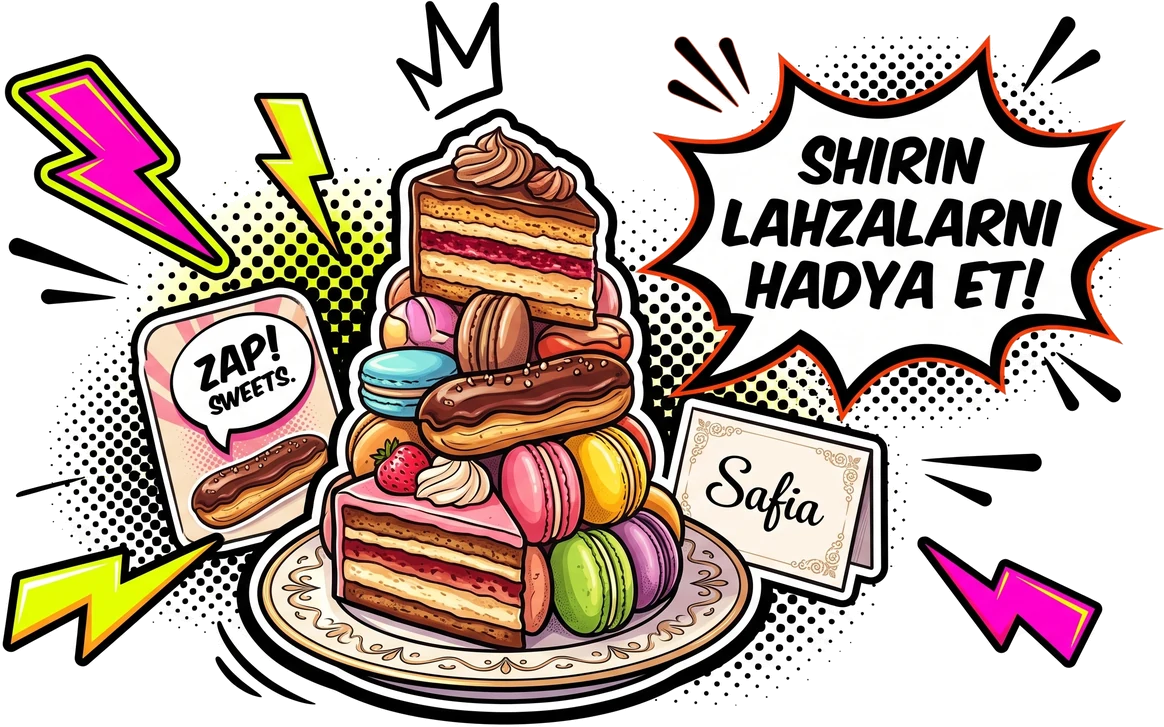
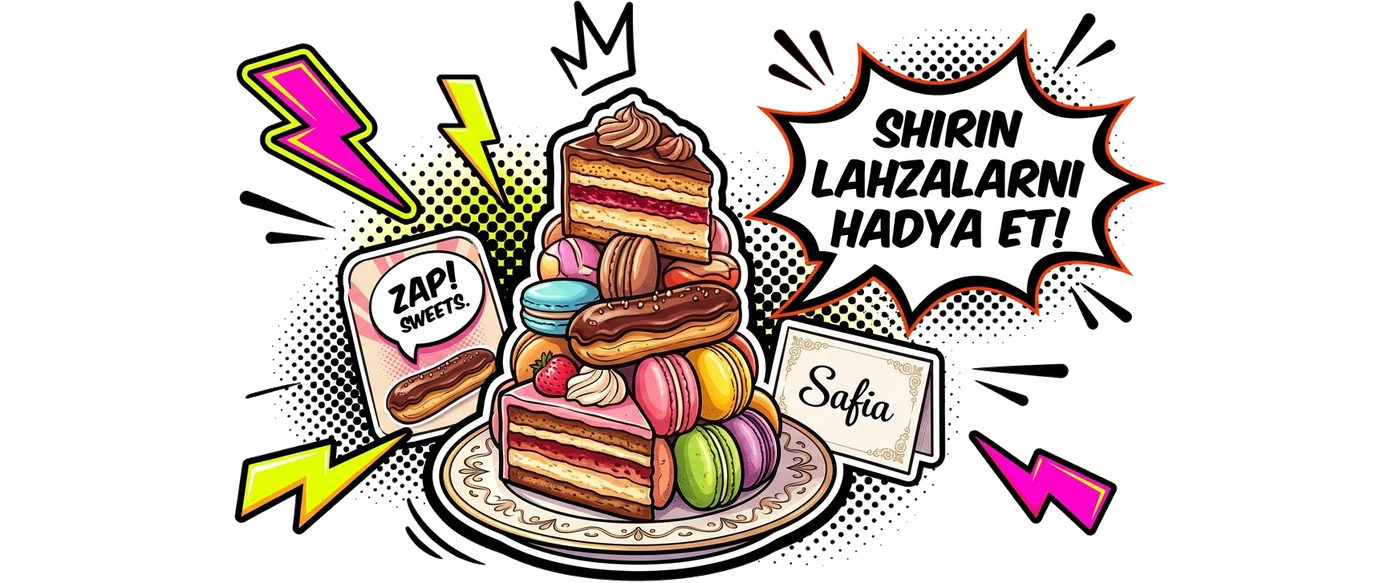
Баннеры одного размера без обрезки
Выравнивание сделано в самих файлах, а не раскладкой: четырём новым баннерам
добавлены прозрачные поля по бокам до пропорции feedup. Теперь при contain все
пять рисуются одной высотой и ничего не обрезается — cover уравнивал размеры,
но срезал у feedup край лаваша.

Кадр уменьшен с 218 до 162: после выравнивания баннеры рисуются высотой ~156,
и прежняя высота оставляла по 30 pt пустоты сверху и снизу.

diff --git a/apps/mobile/src/components/PromoCarousel.tsx b/apps/mobile/src/components/PromoCarousel.tsx
@@ -94,15 +94,17 @@ export function PromoCarousel({ category }: Props) {
             <Pressable key={v.id} style={{ width }} onPress={(e) => onTap(e.nativeEvent.locationX)}>
               <View style={styles.venueImgWrap}>
                 {/*
-                  Только contain: cover уравнивал размеры, но резал рисунок по
-                  краям — у feedup уходил край лаваша.
+                  contain и одинаковая пропорция у всех файлов.
 
-                  Из-за этого feedup рисуется мельче прочих: он 2.43:1, а
-                  остальные баннеры 1.6–1.9:1, и при равной ширине широкий
-                  кадр выходит ниже. Полями это не лечится — он и так упирается
-                  в ширину, поля лишь уменьшат рисунок. Чинится только
-                  перерисовкой feedup в тех же пропорциях, что и остальные
-                  четыре (2752×1536).
+                  Баннеры пришли разной ширины (1.6–2.43:1), и при contain
+                  каждый упирался в свою сторону кадра: широкий feedup выходил
+                  вдвое ниже прочих. cover это выравнивал, но резал рисунок —
+                  у feedup уходил край лаваша.
+
+                  Поэтому выравнивание сделано в самих файлах: остальным
+                  четырём добавлены прозрачные поля по бокам до пропорции
+                  feedup. Теперь все рисуются одной высотой и ничего не
+                  обрезается.
                 */}
                 <Image source={v.img} style={styles.venueImg} resizeMode="contain" fadeDuration={0} />
               </View>
@@ -149,7 +151,9 @@ const styles = StyleSheet.create({
   },
   heroTerms: { fontFamily: font.semibold, fontSize: 14.5, color: 'rgba(255,255,255,0.65)', textAlign: 'center' },
   venueImgWrap: { paddingHorizontal: 8, paddingTop: 4 },
-  venueImg: { height: 218, width: '100%' },
+  // 162, а не 218: после выравнивания пропорций баннеры рисуются высотой
+  // ~156, и прежний кадр оставлял по 30 pt пустоты сверху и снизу
+  venueImg: { height: 162, width: '100%' },
   venueText: { alignItems: 'center', gap: 4, paddingHorizontal: 12, marginTop: 12 },
   venueTitle: { fontFamily: font.extrabold, fontSize: 20, letterSpacing: -0.2, color: '#FFFFFF', textAlign: 'center' },
   venueTerms: { fontFamily: font.semibold, fontSize: 13, color: 'rgba(255,255,255,0.6)', textAlign: 'center' },
